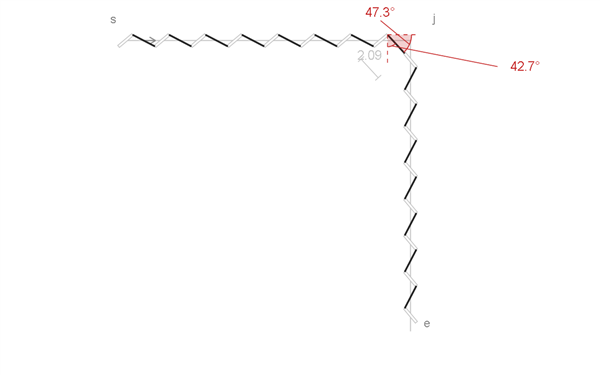
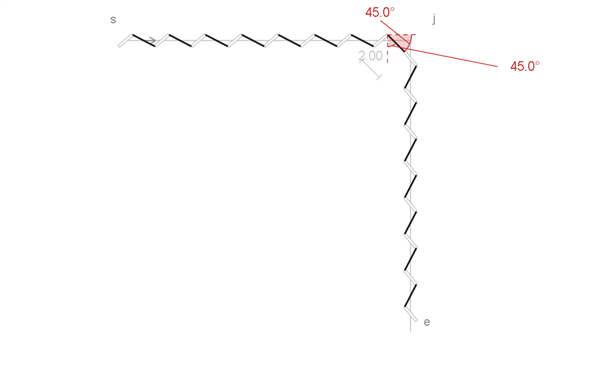
Start mirrored corner at the flip and sweep bridge from 2 to 3 mm

diff --git a/examples/illustrated/README.md b/examples/illustrated/README.md
@@ -59,9 +59,9 @@ The common arm lengths are $L_i=np-c_i/2$, with $n=8$ and $c_i$ the signed shift
 
 Vertex point translates its vertical row upward by $0.4821\,\mathrm{mm}$. The fixed vertex hole then joins two equal $1.9574\,\mathrm{mm}$ visible stitches at $14.3^\circ$ to their respective arms. The final gaps into the hole are both $2.4717\,\mathrm{mm}$; internal arm gaps remain nominal. Move the outgoing virtual slit and end marker with the row. The still and compatibility GIF use this balanced layout.
 
-Bridge translates the vertical run between two calculated positions. Matching ordinary visible thread length moves it up $1.3273\,\mathrm{mm}$, giving $2.0870\,\mathrm{mm}$ of thread and angles $47.3^\circ$ and $42.7^\circ$. Balancing the angles moves it up $1.4463\,\mathrm{mm}$, giving $2.0012\,\mathrm{mm}$ of thread and two $45^\circ$ angles. Hold each for four seconds and interpolate over $1.5\,\mathrm{s}$ each way. The still uses the length-matched position. The whole row and its end marker move; guides and incoming row stay fixed.
+Bridge translates the vertical run between visible thread lengths of $2.00\,\mathrm{mm}$ and $3.00\,\mathrm{mm}$. The corresponding angle pairs are $45.0^\circ/45.0^\circ$ and $61.9^\circ/28.1^\circ$. Hold each for four seconds and interpolate over $1.5\,\mathrm{s}$ each way. The still uses the $2.00\,\mathrm{mm}$ position. The whole row and its end marker move; guides and incoming row stay fixed. Length targets are stored in the test catalog.
 
-The mirrored treatment reuses `diagonalCornerScene` with the Sellier construction parameters from `ILL-SELLIER-CORNER`, extended to the common arm lengths. Its rows stay nominal from the outer endpoints; only the final gaps into the vertex slit absorb the residuals. These are approximately $2.472\,\mathrm{mm}$ and $2.954\,\mathrm{mm}$; the first is below the Autostitch gap bound. Total absolute adjustment matches A6, but the adjusted-gap count does not. The top row starts punched; the vertical row mirrors in place before the shared diagonal slit appears. Omit arm gap dimensions. Show only the two visible corner-thread lengths and red thread angles when the thread appears; length dimensions lighten with the slits.
+The mirrored treatment reuses `diagonalCornerScene` with the Sellier construction parameters from `ILL-SELLIER-CORNER`, extended to the common arm lengths. Its rows stay nominal from the outer endpoints; only the final gaps into the vertex slit absorb the residuals. These are approximately $2.472\,\mathrm{mm}$ and $2.954\,\mathrm{mm}$; the first is below the Autostitch gap bound. Total absolute adjustment matches A6, but the adjusted-gap count does not. Both rows are present in the first frame; the vertical row immediately mirrors in place before the shared diagonal slit appears. Omit arm gap dimensions. Show only the two visible corner-thread lengths and red thread angles when the thread appears; length dimensions lighten with the slits.
 
 The Autostitch solution starts with nominal rows anchored at the original outer endpoints. Its virtual slits continue the nominal rows one pitch beyond their last real slits; they are not centred on the vertex. Move the terminal virtuals and their nominally spaced real neighbours until the selected tips meet (A6), then fit the free spans while keeping the outer endpoints, neighbours and hole fixed. Gap values update; provisional gaps outside the bounds are red. The final incoming arm has two $3.264\,\mathrm{mm}$ adjusted gaps; the outgoing arm has one $3.046\,\mathrm{mm}$ adjusted gap. `I` marks identify them. Reveal the thread together and hold for four seconds.
 
@@ -78,7 +78,7 @@ Motion shows planning revisions, not physical punching order; the analytic const
 - Static diagrams use the same final appearance; glossary figures without thread retain their contrast
 - The corner table in the pitch uses `pitchComparisonMetrics`; `tests/validate-illustrated.mjs` checks the published totals
 - Spacing treatments share the initial residual, including the unfitted nominal row. The bridge uses its direct endpoint span rather than the abandoned path through the vertex. Autostitch corner steps are nominal and use virtual centres for pitch accounting
-- Comparison totals include out-of-bound final gaps in the vertex treatments. The Bridge totals and still use its ordinary-length position. Visible thread-length deviation includes the actual connections to the Autostitch round hole
+- Comparison totals include out-of-bound final gaps in the vertex treatments. The Bridge totals and still use its $2.00\,\mathrm{mm}$ position. Visible thread-length deviation includes the actual connections to the Autostitch round hole
 
 Recalculate totals from the repository root:
 

diff --git a/docs/PITCH_skeleton.md b/docs/PITCH_skeleton.md
@@ -97,12 +97,12 @@
 
 ### Bridge
 
-![Bridge moves between matching stitch length and balancing the corner angles](../examples/illustrated/assets/problem-corner-bridge.gif)
+![Bridge varies from 2 to 3 mm of visible thread while the corner angles change](../examples/illustrated/assets/problem-corner-bridge.gif)
 
 - Thread bridges the last slit on each arm, bypassing the vertex
-- Move the vertical run to match the ordinary stitch length, or to balance the two thread angles
+- Move the vertical run to vary the visible bridge stitch from $2.00$ to $3.00\,\mathrm{mm}$; the red angles change with it
 - Both positions retain nominal arm spacing; the far endpoint moves with the row
-- The table uses the position that matches ordinary stitch length
+- The table uses the $2.00\,\mathrm{mm}$ position
 
 ### Shared diagonal slit with mirrored lean
 
@@ -125,7 +125,7 @@
 | Treatment | Number of adjusted gaps | Absolute adjustment ($\mathrm{mm}$) | Absolute stitch-length deviation ($\mathrm{mm}$) |
 | --- | ---: | ---: | ---: |
 | Vertex point | $2$ | $1.057$ | $0.259$ |
-| Bridge | $1$ | $0.041$ | $0.000$ |
+| Bridge | $1$ | $0.106$ | $0.087$ |
 | Shared diagonal slit with mirrored lean | $2$ | $0.575$ | $0.407$ |
 | Autostitch | $3$ | $0.575$ | $0.516$ |
 
